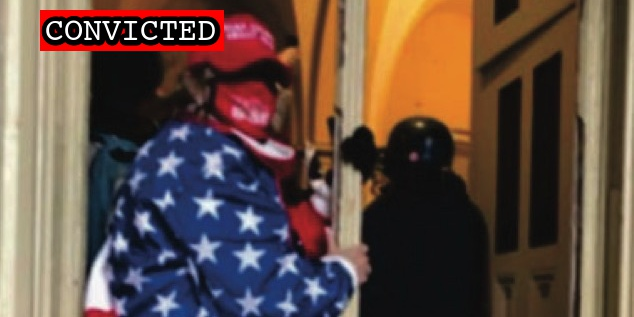
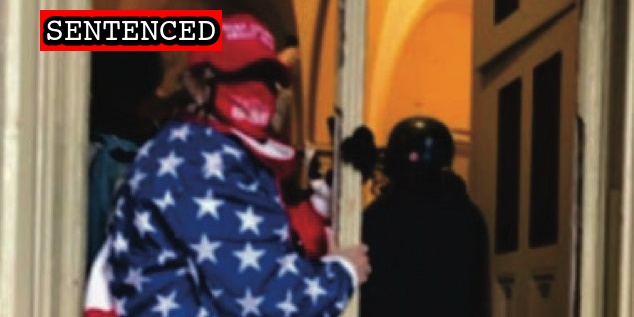
Latest import

Changed region(s): [[0.0599, 0.0284, 0.2997, 0.142], [0.3297, 0.0284, 0.3596, 0.142]]

diff --git a/commands/suspect-import.ts b/commands/suspect-import.ts
@@ -743,7 +743,7 @@ const addData = (suspectData) => {
   for (const [type, url] of Object.entries(links)) {
     if (suspect.links[type]) {
       // link already exists but there may be a "better" one from DOJ
-      if (/^https:\/\/www.justice.gov/.test(<string>url) && suspect.links[type] !== url) {
+      if (/justice.gov/.test(<string>url) && suspect.links[type] !== url) {
         suspect.links[type] = <string>url;
       } else {
         continue;

diff --git a/docs/_suspects/jody-tagaris.md b/docs/_suspects/jody-tagaris.md
@@ -4,13 +4,13 @@ lastName: Tagaris
 hashtag: JodyTagaris
 aka:
 residence: Florida
-status: Convicted
+status: Sentenced
 date: 2021-05-14
 charged: 2021-05-14
 indicted:
 convicted: 2021-12-01
 acquitted:
-sentenced:
+sentenced: 2022-06-06
 dismissed:
 deceased:
 plea_hearing: 2021-12-01
@@ -33,19 +33,21 @@ description: Click for latest case details. Suspects innocent until proven guilt
 author: seditiontrack
 layout: suspect
 published: true
-caseNumber:
+caseNumber: 1:21-cr-368
 videos:
 charges:
-  - code: 18 USC § 5104(e)(2)(C)
-    title: Entering and Remaining in Certain Rooms in the Capitol Building
-    url: https://www.law.cornell.edu/uscode/text/40/5104
-    felony: false
+- code: 18 USC § 5104(e)(2)(C)
+  title: Entering and Remaining in Certain Rooms in the Capitol Building
+  url: https://www.law.cornell.edu/uscode/text/40/5104
+  felony: false
 sentence:
+  - 24 months probation
+  - 60 hours of community service
+  - $2000 restitution
 ---
-
 - [News Report](https://lawandcrime.com/u-s-capitol-siege/got-tear-gassed-but-okay-woman-charged-with-entering-u-s-capitol-building-through-broken-window-during-siege/)
 - [Complaint](https://extremism.gwu.edu/sites/g/files/zaxdzs2191/f/Jody%20Lynn%20Tagaris%20Criminal%20Complaint.pdf)
 - [Statement of Facts](https://extremism.gwu.edu/sites/g/files/zaxdzs2191/f/Jody%20Lynn%20Tagaris%20Criminal%20Complaint.pdf)
-- [Information](https://extremism.gwu.edu/sites/g/files/zaxdzs2191/f/Jody%20Lynn%20Tagaris%20Information.pdf)
-- [Plea Agreement](https://storage.courtlistener.com/recap/gov.uscourts.dcd.231365/gov.uscourts.dcd.231365.12.0.pdf)
-- [Statement of Offense](https://extremism.gwu.edu/sites/g/files/zaxdzs2191/f/Jody%20Lynn%20Tagaris%20Statement%20of%20Offense.pdf)
+- [Information](https://www.justice.gov/usao-dc/case-multi-defendant/file/1510836/download)
+- [Plea Agreement](https://www.justice.gov/usao-dc/case-multi-defendant/file/1510841/download)
+- [Statement of Offense](https://www.justice.gov/usao-dc/case-multi-defendant/file/1510846/download)
